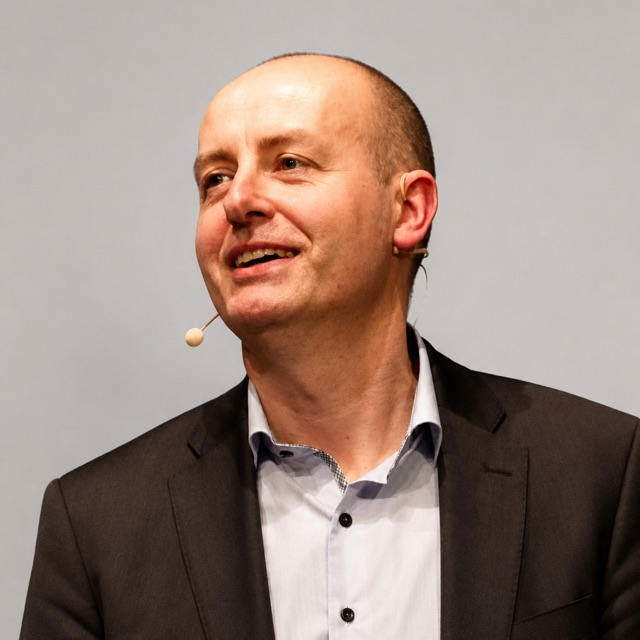
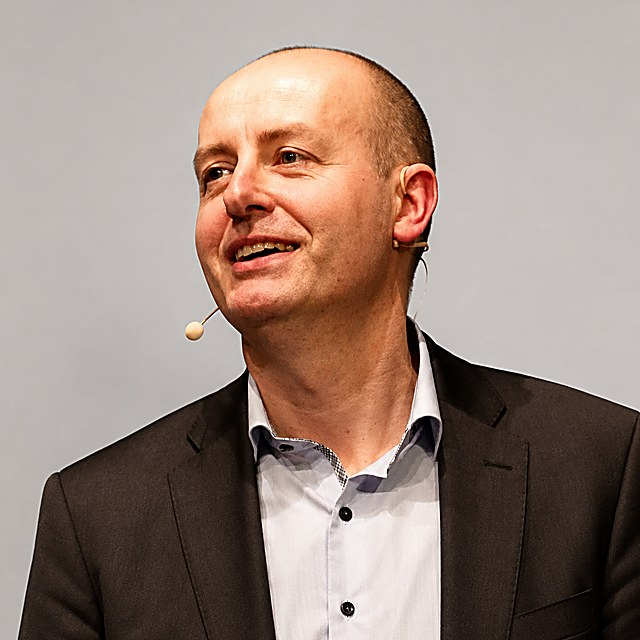
Team: one row per person, real names/roles/bios, eyes aligned
Replaces the 5-up grid with a list — one row per person, since each will
carry multiple download variants (photo, transparent, a third format tbd).
Names, roles and bios come from the org chart the user supplied; Matthieu
has no entry there yet, marked as awaiting input rather than guessed.

Re-cropped every photo from the originals with eyes normalized to roughly
the same height (previously ranged 20-41%), sharpened with an unsharp mask,
and added a 1920x1080 export per person — the square crop on a canvas
extended sideways with a sampled background colour, since the seamless
backdrops make that read as continuous rather than pasted.

Transparent and the third variant are placeholder buttons (background
removal needs proper matting, not available here) until real exports land.

diff --git a/src/Brand.src.html b/src/Brand.src.html
@@ -360,11 +360,28 @@
 
     .icon-row { display: grid; grid-template-columns: repeat(4, minmax(0, 1fr)); gap: var(--s-4); }
     /* ---------- Team ---------- */
-    .team-grid { display: grid; grid-template-columns: repeat(5, minmax(0, 1fr)); gap: var(--s-4); }
-    .team-card { border-radius: 8px; overflow: hidden; }
-    .team-photo { aspect-ratio: 1; background: var(--warm-white); }
+    .team-list { display: flex; flex-direction: column; border: 1px solid var(--border); border-radius: 8px; overflow: hidden; }
+    .team-row { display: flex; align-items: center; gap: var(--s-5); padding: var(--s-4) var(--s-5); border-top: 1px solid var(--border); }
+    .team-row:first-child { border-top: none; }
+    .team-photo { flex: 0 0 72px; width: 72px; height: 72px; border-radius: 8px; overflow: hidden; background: var(--warm-white); }
     .team-photo img { width: 100%; height: 100%; object-fit: cover; display: block; }
-    .team-name { font-size: 13px; font-weight: 600; letter-spacing: -0.02em; margin-top: var(--s-2); }
+    .team-info { flex: 1 1 auto; min-width: 0; }
+    .team-name { font-size: 14px; font-weight: 600; letter-spacing: -0.02em; }
+    .team-role { font-size: 13px; color: var(--blue); margin-top: 2px; }
+    .team-role-tbd { color: var(--gray-300); font-style: italic; }
+    .team-bio { font-size: 12px; line-height: 1.5; color: var(--gray-500); margin-top: 4px; max-width: 62ch; }
+    .team-dl { flex: 0 0 auto; display: flex; gap: var(--s-1); }
+    .team-dl-btn {
+      display: inline-flex; align-items: center; gap: 6px;
+      font-family: 'Inter', sans-serif; font-size: 12px; font-weight: 500; letter-spacing: 0.01em;
+      color: var(--gray-700); background: none; border: 0; cursor: pointer; text-decoration: none;
+      height: 28px; padding: 0 9px; border-radius: 999px;
+      transition: background 120ms ease, color 120ms ease;
+    }
+    .team-dl-btn svg { width: 13px; height: 13px; flex: 0 0 13px; }
+    .team-dl-btn:hover { background: var(--warm-white); color: var(--dark); }
+    .team-dl-btn.is-soon { color: var(--gray-300); cursor: default; }
+    .team-dl-btn.is-soon:hover { background: none; color: var(--gray-300); }
 
     .icon-cell { position: relative; display: flex; flex-direction: column; gap: var(--s-3); border: 1px solid var(--border); border-radius: 8px; padding: var(--s-5); }
     .icon-get {
@@ -1269,55 +1286,147 @@
         <span class="section-icon"><svg viewBox="0 0 256 256" fill="currentColor"><path d="M244.8,150.4a8,8,0,0,1-11.2-1.6A51.6,51.6,0,0,0,192,128a8,8,0,0,1-7.37-4.89,8,8,0,0,1,0-6.22A8,8,0,0,1,192,112a24,24,0,1,0-23.24-30,8,8,0,1,1-15.5-4A40,40,0,1,1,219,117.51a67.94,67.94,0,0,1,27.43,21.68A8,8,0,0,1,244.8,150.4ZM190.92,212a8,8,0,1,1-13.84,8,57,57,0,0,0-98.16,0,8,8,0,1,1-13.84-8,72.06,72.06,0,0,1,33.74-29.92,48,48,0,1,1,58.36,0A72.06,72.06,0,0,1,190.92,212ZM128,176a32,32,0,1,0-32-32A32,32,0,0,0,128,176ZM72,120a8,8,0,0,0-8-8A24,24,0,1,1,87.24,82a8,8,0,1,0,15.5-4A40,40,0,1,0,37,117.51,67.94,67.94,0,0,0,9.6,139.19a8,8,0,1,0,12.8,9.61A51.6,51.6,0,0,1,64,128,8,8,0,0,0,72,120Z"/></svg></span>
         <h2 class="section-title">Team</h2>
       </div>
-      <p class="section-intro">The official set of headshots — for LinkedIn, the about page, speaker bios, press. One square crop, on a plain ground, at consistent framing across every person and every account.</p>
+      <p class="section-intro">The official set of headshots and bios &mdash; for LinkedIn, the about page, speaker bios, press. One row per person, one crop, one background.</p>
 
-      <div class="team-grid">
-        <div class="team-card">
-          <div class="team-photo"><img src="bart.jpg" alt="Bart"></div>
-          <p class="team-name">Bart</p>
+      <div class="team-list">
+        <div class="team-row">
+          <div class="team-photo"><img src="stephan.jpg" alt="Stephan van den Bremer"></div>
+          <div class="team-info">
+            <p class="team-name">Stephan van den Bremer</p>
+            <p class="team-role">CEO & Co-Founder</p>
+            <p class="team-bio">Based in the Netherlands. 30+ years in martech, ex-EU MD IgnitionOne, investor, MBA Erasmus.</p>
+          </div>
+          <div class="team-dl">
+            <a class="team-dl-btn" href="assets/team/photo-1920x1080/stephan.jpg" download><svg viewBox="0 0 256 256" fill="currentColor" aria-hidden="true"><path d="M224,144v64a8,8,0,0,1-8,8H40a8,8,0,0,1-8-8V144a8,8,0,0,1,16,0v56H208V144a8,8,0,0,1,16,0Zm-101.66,5.66a8,8,0,0,0,11.32,0l40-40a8,8,0,0,0-11.32-11.32L136,124.69V32a8,8,0,0,0-16,0v92.69L93.66,98.34a8,8,0,0,0-11.32,11.32Z"/></svg><span>Photo</span></a>
+            <span class="team-dl-btn is-soon"><svg viewBox="0 0 256 256" fill="currentColor" aria-hidden="true"><path d="M224,144v64a8,8,0,0,1-8,8H40a8,8,0,0,1-8-8V144a8,8,0,0,1,16,0v56H208V144a8,8,0,0,1,16,0Zm-101.66,5.66a8,8,0,0,0,11.32,0l40-40a8,8,0,0,0-11.32-11.32L136,124.69V32a8,8,0,0,0-16,0v92.69L93.66,98.34a8,8,0,0,0-11.32,11.32Z"/></svg><span>Transparent</span></span>
+            <span class="team-dl-btn is-soon"><svg viewBox="0 0 256 256" fill="currentColor" aria-hidden="true"><path d="M224,144v64a8,8,0,0,1-8,8H40a8,8,0,0,1-8-8V144a8,8,0,0,1,16,0v56H208V144a8,8,0,0,1,16,0Zm-101.66,5.66a8,8,0,0,0,11.32,0l40-40a8,8,0,0,0-11.32-11.32L136,124.69V32a8,8,0,0,0-16,0v92.69L93.66,98.34a8,8,0,0,0-11.32,11.32Z"/></svg><span>Alternate</span></span>
+          </div>
         </div>
-        <div class="team-card">
-          <div class="team-photo"><img src="filip.jpg" alt="Filip"></div>
-          <p class="team-name">Filip</p>
+        <div class="team-row">
+          <div class="team-photo"><img src="michael.jpg" alt="Michaël Vaes"></div>
+          <div class="team-info">
+            <p class="team-name">Michaël Vaes</p>
+            <p class="team-role">CTO & Co-Founder</p>
+            <p class="team-bio">Based in Belgium. 20+ years in software development, pioneer in real-time bidding and ad-tech.</p>
+          </div>
+          <div class="team-dl">
+            <a class="team-dl-btn" href="assets/team/photo-1920x1080/michael.jpg" download><svg viewBox="0 0 256 256" fill="currentColor" aria-hidden="true"><path d="M224,144v64a8,8,0,0,1-8,8H40a8,8,0,0,1-8-8V144a8,8,0,0,1,16,0v56H208V144a8,8,0,0,1,16,0Zm-101.66,5.66a8,8,0,0,0,11.32,0l40-40a8,8,0,0,0-11.32-11.32L136,124.69V32a8,8,0,0,0-16,0v92.69L93.66,98.34a8,8,0,0,0-11.32,11.32Z"/></svg><span>Photo</span></a>
+            <span class="team-dl-btn is-soon"><svg viewBox="0 0 256 256" fill="currentColor" aria-hidden="true"><path d="M224,144v64a8,8,0,0,1-8,8H40a8,8,0,0,1-8-8V144a8,8,0,0,1,16,0v56H208V144a8,8,0,0,1,16,0Zm-101.66,5.66a8,8,0,0,0,11.32,0l40-40a8,8,0,0,0-11.32-11.32L136,124.69V32a8,8,0,0,0-16,0v92.69L93.66,98.34a8,8,0,0,0-11.32,11.32Z"/></svg><span>Transparent</span></span>
+            <span class="team-dl-btn is-soon"><svg viewBox="0 0 256 256" fill="currentColor" aria-hidden="true"><path d="M224,144v64a8,8,0,0,1-8,8H40a8,8,0,0,1-8-8V144a8,8,0,0,1,16,0v56H208V144a8,8,0,0,1,16,0Zm-101.66,5.66a8,8,0,0,0,11.32,0l40-40a8,8,0,0,0-11.32-11.32L136,124.69V32a8,8,0,0,0-16,0v92.69L93.66,98.34a8,8,0,0,0-11.32,11.32Z"/></svg><span>Alternate</span></span>
+          </div>
         </div>
-        <div class="team-card">
-          <div class="team-photo"><img src="kurt.jpg" alt="Kurt"></div>
-          <p class="team-name">Kurt</p>
+        <div class="team-row">
+          <div class="team-photo"><img src="filip.jpg" alt="Filip Lauweres"></div>
+          <div class="team-info">
+            <p class="team-name">Filip Lauweres</p>
+            <p class="team-role">Co-Founder & Chief of Staff (0.2 FTE)</p>
+            <p class="team-bio">Based in Belgium. 30+ years in martech, founder of Netmining, serial entrepreneur, investor.</p>
+          </div>
+          <div class="team-dl">
+            <a class="team-dl-btn" href="assets/team/photo-1920x1080/filip.jpg" download><svg viewBox="0 0 256 256" fill="currentColor" aria-hidden="true"><path d="M224,144v64a8,8,0,0,1-8,8H40a8,8,0,0,1-8-8V144a8,8,0,0,1,16,0v56H208V144a8,8,0,0,1,16,0Zm-101.66,5.66a8,8,0,0,0,11.32,0l40-40a8,8,0,0,0-11.32-11.32L136,124.69V32a8,8,0,0,0-16,0v92.69L93.66,98.34a8,8,0,0,0-11.32,11.32Z"/></svg><span>Photo</span></a>
+            <span class="team-dl-btn is-soon"><svg viewBox="0 0 256 256" fill="currentColor" aria-hidden="true"><path d="M224,144v64a8,8,0,0,1-8,8H40a8,8,0,0,1-8-8V144a8,8,0,0,1,16,0v56H208V144a8,8,0,0,1,16,0Zm-101.66,5.66a8,8,0,0,0,11.32,0l40-40a8,8,0,0,0-11.32-11.32L136,124.69V32a8,8,0,0,0-16,0v92.69L93.66,98.34a8,8,0,0,0-11.32,11.32Z"/></svg><span>Transparent</span></span>
+            <span class="team-dl-btn is-soon"><svg viewBox="0 0 256 256" fill="currentColor" aria-hidden="true"><path d="M224,144v64a8,8,0,0,1-8,8H40a8,8,0,0,1-8-8V144a8,8,0,0,1,16,0v56H208V144a8,8,0,0,1,16,0Zm-101.66,5.66a8,8,0,0,0,11.32,0l40-40a8,8,0,0,0-11.32-11.32L136,124.69V32a8,8,0,0,0-16,0v92.69L93.66,98.34a8,8,0,0,0-11.32,11.32Z"/></svg><span>Alternate</span></span>
+          </div>
         </div>
-        <div class="team-card">
-          <div class="team-photo"><img src="marcelo.jpg" alt="Marcelo"></div>
-          <p class="team-name">Marcelo</p>
+        <div class="team-row">
+          <div class="team-photo"><img src="kurt.jpg" alt="Kurt Briers"></div>
+          <div class="team-info">
+            <p class="team-name">Kurt Briers</p>
+            <p class="team-role">Co-Founder (no active role)</p>
+            <p class="team-bio">Based in Belgium. 20+ years in martech software development, Technical &amp; Architectural Lead at Zeta Global.</p>
+          </div>
+          <div class="team-dl">
+            <a class="team-dl-btn" href="assets/team/photo-1920x1080/kurt.jpg" download><svg viewBox="0 0 256 256" fill="currentColor" aria-hidden="true"><path d="M224,144v64a8,8,0,0,1-8,8H40a8,8,0,0,1-8-8V144a8,8,0,0,1,16,0v56H208V144a8,8,0,0,1,16,0Zm-101.66,5.66a8,8,0,0,0,11.32,0l40-40a8,8,0,0,0-11.32-11.32L136,124.69V32a8,8,0,0,0-16,0v92.69L93.66,98.34a8,8,0,0,0-11.32,11.32Z"/></svg><span>Photo</span></a>
+            <span class="team-dl-btn is-soon"><svg viewBox="0 0 256 256" fill="currentColor" aria-hidden="true"><path d="M224,144v64a8,8,0,0,1-8,8H40a8,8,0,0,1-8-8V144a8,8,0,0,1,16,0v56H208V144a8,8,0,0,1,16,0Zm-101.66,5.66a8,8,0,0,0,11.32,0l40-40a8,8,0,0,0-11.32-11.32L136,124.69V32a8,8,0,0,0-16,0v92.69L93.66,98.34a8,8,0,0,0-11.32,11.32Z"/></svg><span>Transparent</span></span>
+            <span class="team-dl-btn is-soon"><svg viewBox="0 0 256 256" fill="currentColor" aria-hidden="true"><path d="M224,144v64a8,8,0,0,1-8,8H40a8,8,0,0,1-8-8V144a8,8,0,0,1,16,0v56H208V144a8,8,0,0,1,16,0Zm-101.66,5.66a8,8,0,0,0,11.32,0l40-40a8,8,0,0,0-11.32-11.32L136,124.69V32a8,8,0,0,0-16,0v92.69L93.66,98.34a8,8,0,0,0-11.32,11.32Z"/></svg><span>Alternate</span></span>
+          </div>
         </div>
-        <div class="team-card">
+        <div class="team-row">
+          <div class="team-photo"><img src="bart.jpg" alt="Bart de Fluiter"></div>
+          <div class="team-info">
+            <p class="team-name">Bart de Fluiter</p>
+            <p class="team-role">Sales Netherlands / Investor</p>
+            
+          </div>
+          <div class="team-dl">
+            <a class="team-dl-btn" href="assets/team/photo-1920x1080/bart.jpg" download><svg viewBox="0 0 256 256" fill="currentColor" aria-hidden="true"><path d="M224,144v64a8,8,0,0,1-8,8H40a8,8,0,0,1-8-8V144a8,8,0,0,1,16,0v56H208V144a8,8,0,0,1,16,0Zm-101.66,5.66a8,8,0,0,0,11.32,0l40-40a8,8,0,0,0-11.32-11.32L136,124.69V32a8,8,0,0,0-16,0v92.69L93.66,98.34a8,8,0,0,0-11.32,11.32Z"/></svg><span>Photo</span></a>
+            <span class="team-dl-btn is-soon"><svg viewBox="0 0 256 256" fill="currentColor" aria-hidden="true"><path d="M224,144v64a8,8,0,0,1-8,8H40a8,8,0,0,1-8-8V144a8,8,0,0,1,16,0v56H208V144a8,8,0,0,1,16,0Zm-101.66,5.66a8,8,0,0,0,11.32,0l40-40a8,8,0,0,0-11.32-11.32L136,124.69V32a8,8,0,0,0-16,0v92.69L93.66,98.34a8,8,0,0,0-11.32,11.32Z"/></svg><span>Transparent</span></span>
+            <span class="team-dl-btn is-soon"><svg viewBox="0 0 256 256" fill="currentColor" aria-hidden="true"><path d="M224,144v64a8,8,0,0,1-8,8H40a8,8,0,0,1-8-8V144a8,8,0,0,1,16,0v56H208V144a8,8,0,0,1,16,0Zm-101.66,5.66a8,8,0,0,0,11.32,0l40-40a8,8,0,0,0-11.32-11.32L136,124.69V32a8,8,0,0,0-16,0v92.69L93.66,98.34a8,8,0,0,0-11.32,11.32Z"/></svg><span>Alternate</span></span>
+          </div>
+        </div>
+        <div class="team-row">
+          <div class="team-photo"><img src="oliver.jpg" alt="Oliver Bath"></div>
+          <div class="team-info">
+            <p class="team-name">Oliver Bath</p>
+            <p class="team-role">International Sales (0.5 FTE)</p>
+            
+          </div>
+          <div class="team-dl">
+            <a class="team-dl-btn" href="assets/team/photo-1920x1080/oliver.jpg" download><svg viewBox="0 0 256 256" fill="currentColor" aria-hidden="true"><path d="M224,144v64a8,8,0,0,1-8,8H40a8,8,0,0,1-8-8V144a8,8,0,0,1,16,0v56H208V144a8,8,0,0,1,16,0Zm-101.66,5.66a8,8,0,0,0,11.32,0l40-40a8,8,0,0,0-11.32-11.32L136,124.69V32a8,8,0,0,0-16,0v92.69L93.66,98.34a8,8,0,0,0-11.32,11.32Z"/></svg><span>Photo</span></a>
+            <span class="team-dl-btn is-soon"><svg viewBox="0 0 256 256" fill="currentColor" aria-hidden="true"><path d="M224,144v64a8,8,0,0,1-8,8H40a8,8,0,0,1-8-8V144a8,8,0,0,1,16,0v56H208V144a8,8,0,0,1,16,0Zm-101.66,5.66a8,8,0,0,0,11.32,0l40-40a8,8,0,0,0-11.32-11.32L136,124.69V32a8,8,0,0,0-16,0v92.69L93.66,98.34a8,8,0,0,0-11.32,11.32Z"/></svg><span>Transparent</span></span>
+            <span class="team-dl-btn is-soon"><svg viewBox="0 0 256 256" fill="currentColor" aria-hidden="true"><path d="M224,144v64a8,8,0,0,1-8,8H40a8,8,0,0,1-8-8V144a8,8,0,0,1,16,0v56H208V144a8,8,0,0,1,16,0Zm-101.66,5.66a8,8,0,0,0,11.32,0l40-40a8,8,0,0,0-11.32-11.32L136,124.69V32a8,8,0,0,0-16,0v92.69L93.66,98.34a8,8,0,0,0-11.32,11.32Z"/></svg><span>Alternate</span></span>
+          </div>
+        </div>
+        <div class="team-row">
+          <div class="team-photo"><img src="sander.jpg" alt="Sander Heymans"></div>
+          <div class="team-info">
+            <p class="team-name">Sander Heymans</p>
+            <p class="team-role">Customer Success</p>
+            
+          </div>
+          <div class="team-dl">
+            <a class="team-dl-btn" href="assets/team/photo-1920x1080/sander.jpg" download><svg viewBox="0 0 256 256" fill="currentColor" aria-hidden="true"><path d="M224,144v64a8,8,0,0,1-8,8H40a8,8,0,0,1-8-8V144a8,8,0,0,1,16,0v56H208V144a8,8,0,0,1,16,0Zm-101.66,5.66a8,8,0,0,0,11.32,0l40-40a8,8,0,0,0-11.32-11.32L136,124.69V32a8,8,0,0,0-16,0v92.69L93.66,98.34a8,8,0,0,0-11.32,11.32Z"/></svg><span>Photo</span></a>
+            <span class="team-dl-btn is-soon"><svg viewBox="0 0 256 256" fill="currentColor" aria-hidden="true"><path d="M224,144v64a8,8,0,0,1-8,8H40a8,8,0,0,1-8-8V144a8,8,0,0,1,16,0v56H208V144a8,8,0,0,1,16,0Zm-101.66,5.66a8,8,0,0,0,11.32,0l40-40a8,8,0,0,0-11.32-11.32L136,124.69V32a8,8,0,0,0-16,0v92.69L93.66,98.34a8,8,0,0,0-11.32,11.32Z"/></svg><span>Transparent</span></span>
+            <span class="team-dl-btn is-soon"><svg viewBox="0 0 256 256" fill="currentColor" aria-hidden="true"><path d="M224,144v64a8,8,0,0,1-8,8H40a8,8,0,0,1-8-8V144a8,8,0,0,1,16,0v56H208V144a8,8,0,0,1,16,0Zm-101.66,5.66a8,8,0,0,0,11.32,0l40-40a8,8,0,0,0-11.32-11.32L136,124.69V32a8,8,0,0,0-16,0v92.69L93.66,98.34a8,8,0,0,0-11.32,11.32Z"/></svg><span>Alternate</span></span>
+          </div>
+        </div>
+        <div class="team-row">
+          <div class="team-photo"><img src="marcelo.jpg" alt="Marcelo Bem"></div>
+          <div class="team-info">
+            <p class="team-name">Marcelo Bem</p>
+            <p class="team-role">Development</p>
+            
+          </div>
+          <div class="team-dl">
+            <a class="team-dl-btn" href="assets/team/photo-1920x1080/marcelo.jpg" download><svg viewBox="0 0 256 256" fill="currentColor" aria-hidden="true"><path d="M224,144v64a8,8,0,0,1-8,8H40a8,8,0,0,1-8-8V144a8,8,0,0,1,16,0v56H208V144a8,8,0,0,1,16,0Zm-101.66,5.66a8,8,0,0,0,11.32,0l40-40a8,8,0,0,0-11.32-11.32L136,124.69V32a8,8,0,0,0-16,0v92.69L93.66,98.34a8,8,0,0,0-11.32,11.32Z"/></svg><span>Photo</span></a>
+            <span class="team-dl-btn is-soon"><svg viewBox="0 0 256 256" fill="currentColor" aria-hidden="true"><path d="M224,144v64a8,8,0,0,1-8,8H40a8,8,0,0,1-8-8V144a8,8,0,0,1,16,0v56H208V144a8,8,0,0,1,16,0Zm-101.66,5.66a8,8,0,0,0,11.32,0l40-40a8,8,0,0,0-11.32-11.32L136,124.69V32a8,8,0,0,0-16,0v92.69L93.66,98.34a8,8,0,0,0-11.32,11.32Z"/></svg><span>Transparent</span></span>
+            <span class="team-dl-btn is-soon"><svg viewBox="0 0 256 256" fill="currentColor" aria-hidden="true"><path d="M224,144v64a8,8,0,0,1-8,8H40a8,8,0,0,1-8-8V144a8,8,0,0,1,16,0v56H208V144a8,8,0,0,1,16,0Zm-101.66,5.66a8,8,0,0,0,11.32,0l40-40a8,8,0,0,0-11.32-11.32L136,124.69V32a8,8,0,0,0-16,0v92.69L93.66,98.34a8,8,0,0,0-11.32,11.32Z"/></svg><span>Alternate</span></span>
+          </div>
+        </div>
+        <div class="team-row">
+          <div class="team-photo"><img src="olger.jpg" alt="Olger van de Vliet"></div>
+          <div class="team-info">
+            <p class="team-name">Olger van de Vliet</p>
+            <p class="team-role">Marketing</p>
+            
+          </div>
+          <div class="team-dl">
+            <a class="team-dl-btn" href="assets/team/photo-1920x1080/olger.jpg" download><svg viewBox="0 0 256 256" fill="currentColor" aria-hidden="true"><path d="M224,144v64a8,8,0,0,1-8,8H40a8,8,0,0,1-8-8V144a8,8,0,0,1,16,0v56H208V144a8,8,0,0,1,16,0Zm-101.66,5.66a8,8,0,0,0,11.32,0l40-40a8,8,0,0,0-11.32-11.32L136,124.69V32a8,8,0,0,0-16,0v92.69L93.66,98.34a8,8,0,0,0-11.32,11.32Z"/></svg><span>Photo</span></a>
+            <span class="team-dl-btn is-soon"><svg viewBox="0 0 256 256" fill="currentColor" aria-hidden="true"><path d="M224,144v64a8,8,0,0,1-8,8H40a8,8,0,0,1-8-8V144a8,8,0,0,1,16,0v56H208V144a8,8,0,0,1,16,0Zm-101.66,5.66a8,8,0,0,0,11.32,0l40-40a8,8,0,0,0-11.32-11.32L136,124.69V32a8,8,0,0,0-16,0v92.69L93.66,98.34a8,8,0,0,0-11.32,11.32Z"/></svg><span>Transparent</span></span>
+            <span class="team-dl-btn is-soon"><svg viewBox="0 0 256 256" fill="currentColor" aria-hidden="true"><path d="M224,144v64a8,8,0,0,1-8,8H40a8,8,0,0,1-8-8V144a8,8,0,0,1,16,0v56H208V144a8,8,0,0,1,16,0Zm-101.66,5.66a8,8,0,0,0,11.32,0l40-40a8,8,0,0,0-11.32-11.32L136,124.69V32a8,8,0,0,0-16,0v92.69L93.66,98.34a8,8,0,0,0-11.32,11.32Z"/></svg><span>Alternate</span></span>
+          </div>
+        </div>
+        <div class="team-row">
           <div class="team-photo"><img src="matthieu.jpg" alt="Matthieu"></div>
-          <p class="team-name">Matthieu</p>
-        </div>
-        <div class="team-card">
-          <div class="team-photo"><img src="michael.jpg" alt="Michaël"></div>
-          <p class="team-name">Michaël</p>
-        </div>
-        <div class="team-card">
-          <div class="team-photo"><img src="olger.jpg" alt="Olger"></div>
-          <p class="team-name">Olger</p>
-        </div>
-        <div class="team-card">
-          <div class="team-photo"><img src="oliver.jpg" alt="Oliver"></div>
-          <p class="team-name">Oliver</p>
-        </div>
-        <div class="team-card">
-          <div class="team-photo"><img src="sander.jpg" alt="Sander"></div>
-          <p class="team-name">Sander</p>
-        </div>
-        <div class="team-card">
-          <div class="team-photo"><img src="stephan.jpg" alt="Stephan"></div>
-          <p class="team-name">Stephan</p>
+          <div class="team-info">
+            <p class="team-name">Matthieu</p>
+            <p class="team-role team-role-tbd">Role &mdash; awaiting input</p>
+            
+          </div>
+          <div class="team-dl">
+            <a class="team-dl-btn" href="assets/team/photo-1920x1080/matthieu.jpg" download><svg viewBox="0 0 256 256" fill="currentColor" aria-hidden="true"><path d="M224,144v64a8,8,0,0,1-8,8H40a8,8,0,0,1-8-8V144a8,8,0,0,1,16,0v56H208V144a8,8,0,0,1,16,0Zm-101.66,5.66a8,8,0,0,0,11.32,0l40-40a8,8,0,0,0-11.32-11.32L136,124.69V32a8,8,0,0,0-16,0v92.69L93.66,98.34a8,8,0,0,0-11.32,11.32Z"/></svg><span>Photo</span></a>
+            <span class="team-dl-btn is-soon"><svg viewBox="0 0 256 256" fill="currentColor" aria-hidden="true"><path d="M224,144v64a8,8,0,0,1-8,8H40a8,8,0,0,1-8-8V144a8,8,0,0,1,16,0v56H208V144a8,8,0,0,1,16,0Zm-101.66,5.66a8,8,0,0,0,11.32,0l40-40a8,8,0,0,0-11.32-11.32L136,124.69V32a8,8,0,0,0-16,0v92.69L93.66,98.34a8,8,0,0,0-11.32,11.32Z"/></svg><span>Transparent</span></span>
+            <span class="team-dl-btn is-soon"><svg viewBox="0 0 256 256" fill="currentColor" aria-hidden="true"><path d="M224,144v64a8,8,0,0,1-8,8H40a8,8,0,0,1-8-8V144a8,8,0,0,1,16,0v56H208V144a8,8,0,0,1,16,0Zm-101.66,5.66a8,8,0,0,0,11.32,0l40-40a8,8,0,0,0-11.32-11.32L136,124.69V32a8,8,0,0,0-16,0v92.69L93.66,98.34a8,8,0,0,0-11.32,11.32Z"/></svg><span>Alternate</span></span>
+          </div>
         </div>
       </div>
 
       <div class="rule-list">
-        <div class="rule"><div class="rule-key">Crop</div><div class="rule-val">Square, head and shoulders, same framing for everyone — no one photo wider or looser than the rest.</div></div>
-        <div class="rule"><div class="rule-key">Background</div><div class="rule-val">Plain and light. No office backdrops, no busy interiors — the person is the subject.</div></div>
-        <div class="rule"><div class="rule-key">Use</div><div class="rule-val">LinkedIn personal profile pictures, the about page, speaker decks and press requests. Never cropped tighter or looser than the square delivered here.</div></div>
+        <div class="rule"><div class="rule-key">Crop</div><div class="rule-val">Square, head and shoulders, eyes at the same height across every row &mdash; no one photo wider, looser or lower than the rest.</div></div>
+        <div class="rule"><div class="rule-key">Background</div><div class="rule-val">Plain and light. No office backdrops, no busy interiors &mdash; the person is the subject.</div></div>
+        <div class="rule"><div class="rule-key">Photo download</div><div class="rule-val">1920 &times; 1080 px, JPEG. The square crop on an extended background, ready to drop into a slide or a wide layout.</div></div>
+        <div class="rule"><div class="rule-key">Other variants</div><div class="rule-val">Transparent background and a third format are coming &mdash; the buttons are placeholders until those exports exist.</div></div>
+        <div class="rule"><div class="rule-key">Use</div><div class="rule-val">LinkedIn personal profile pictures, the about page, speaker decks and press requests. Never cropped tighter or looser than the version delivered here.</div></div>
       </div>
     </section>
 
